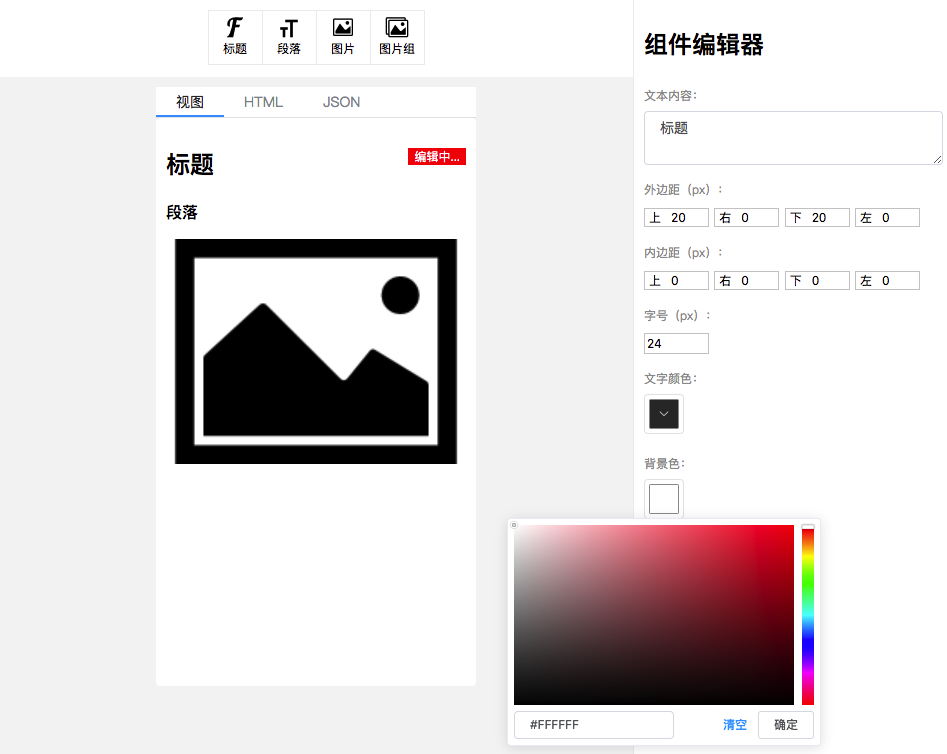
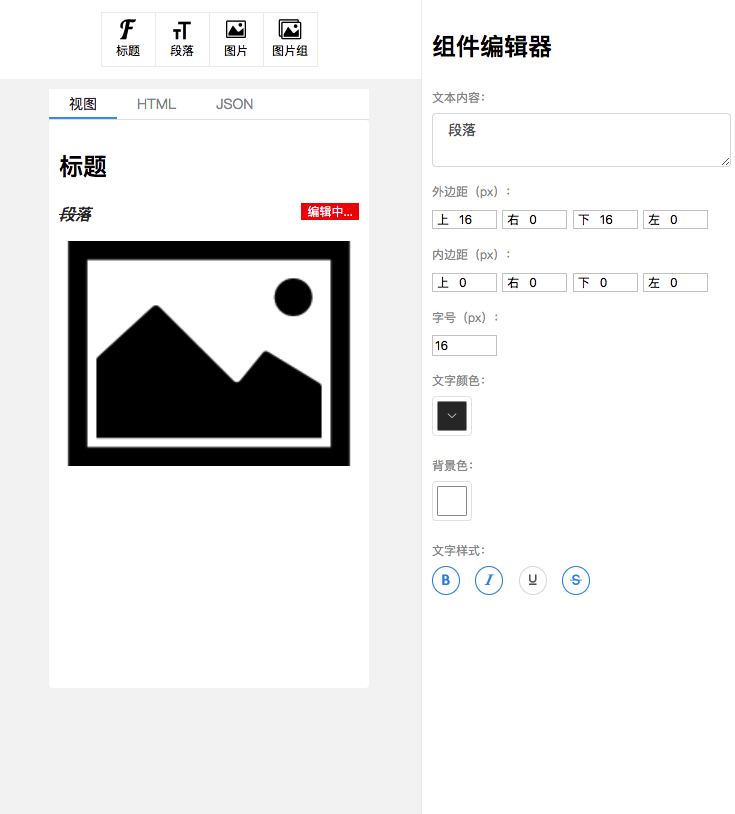
增加文字样式编辑

diff --git a/src/components/styles/font-align.vue b/src/components/styles/font-align.vue
@@ -1,0 +1,73 @@
+<template>
+  <div>
+    <div class="editor-title">文字样式：</div>
+    <el-button size="mini" icon="icon-bold" circle :class="{active: bold}" @click="change('bold')"></el-button>
+    <el-button size="mini" icon="icon-italic" circle :class="{active: italic}" @click="change('italic')"></el-button>
+    <el-button size="mini" icon="icon-underline" circle :class="{active: underline}" @click="change('underline')"></el-button>
+    <el-button size="mini" icon="icon-strikethrough" circle :class="{active: strikethrough}" @click="change('strikethrough')"></el-button>
+  </div>
+</template>
+
+<script>
+export default {
+  data () {
+    return {
+      bold: false,
+      italic: false,
+      underline: true,
+      strikethrough: false,
+    };
+  },
+
+  props: {
+    styles: {}
+  },
+
+  watch: {
+    styles () {
+      this.init();
+    }
+  },
+
+  created () {
+    this.init();
+  },
+
+  methods: {
+    init () {
+      this.bold = this.styles.fontWeight === 'bold';
+      this.italic = this.styles.fontStyle === 'italic';
+      this.underline = this.styles.textDecoration === 'underline';
+      this.strikethrough = this.styles.textDecoration === 'line-through';
+    },
+    change (type) {
+      switch (type) {
+        case 'bold':
+          this.$emit('change', 'fontWeight', !this[type]? 'bold' : 'normal');
+          break;
+        case 'italic':
+          this.$emit('change', 'fontStyle', !this[type]? 'italic' : 'normal');
+          break;
+        case 'underline':
+          this.$emit('change', 'textDecoration', !this[type]? 'underline' : 'normal');
+          this.strikethrough = false;
+          break;
+        case 'strikethrough':
+          this.$emit('change', 'textDecoration', !this[type]? 'line-through' : 'normal');
+          this.underline = false;
+          break;
+      }
+      this[type] = !this[type];
+    }
+  }
+}
+</script>
+
+
+<style scoped>
+.active {
+  color: #3a8ee6;
+  border-color: #3a8ee6;
+  outline: 0;
+}
+</style>
